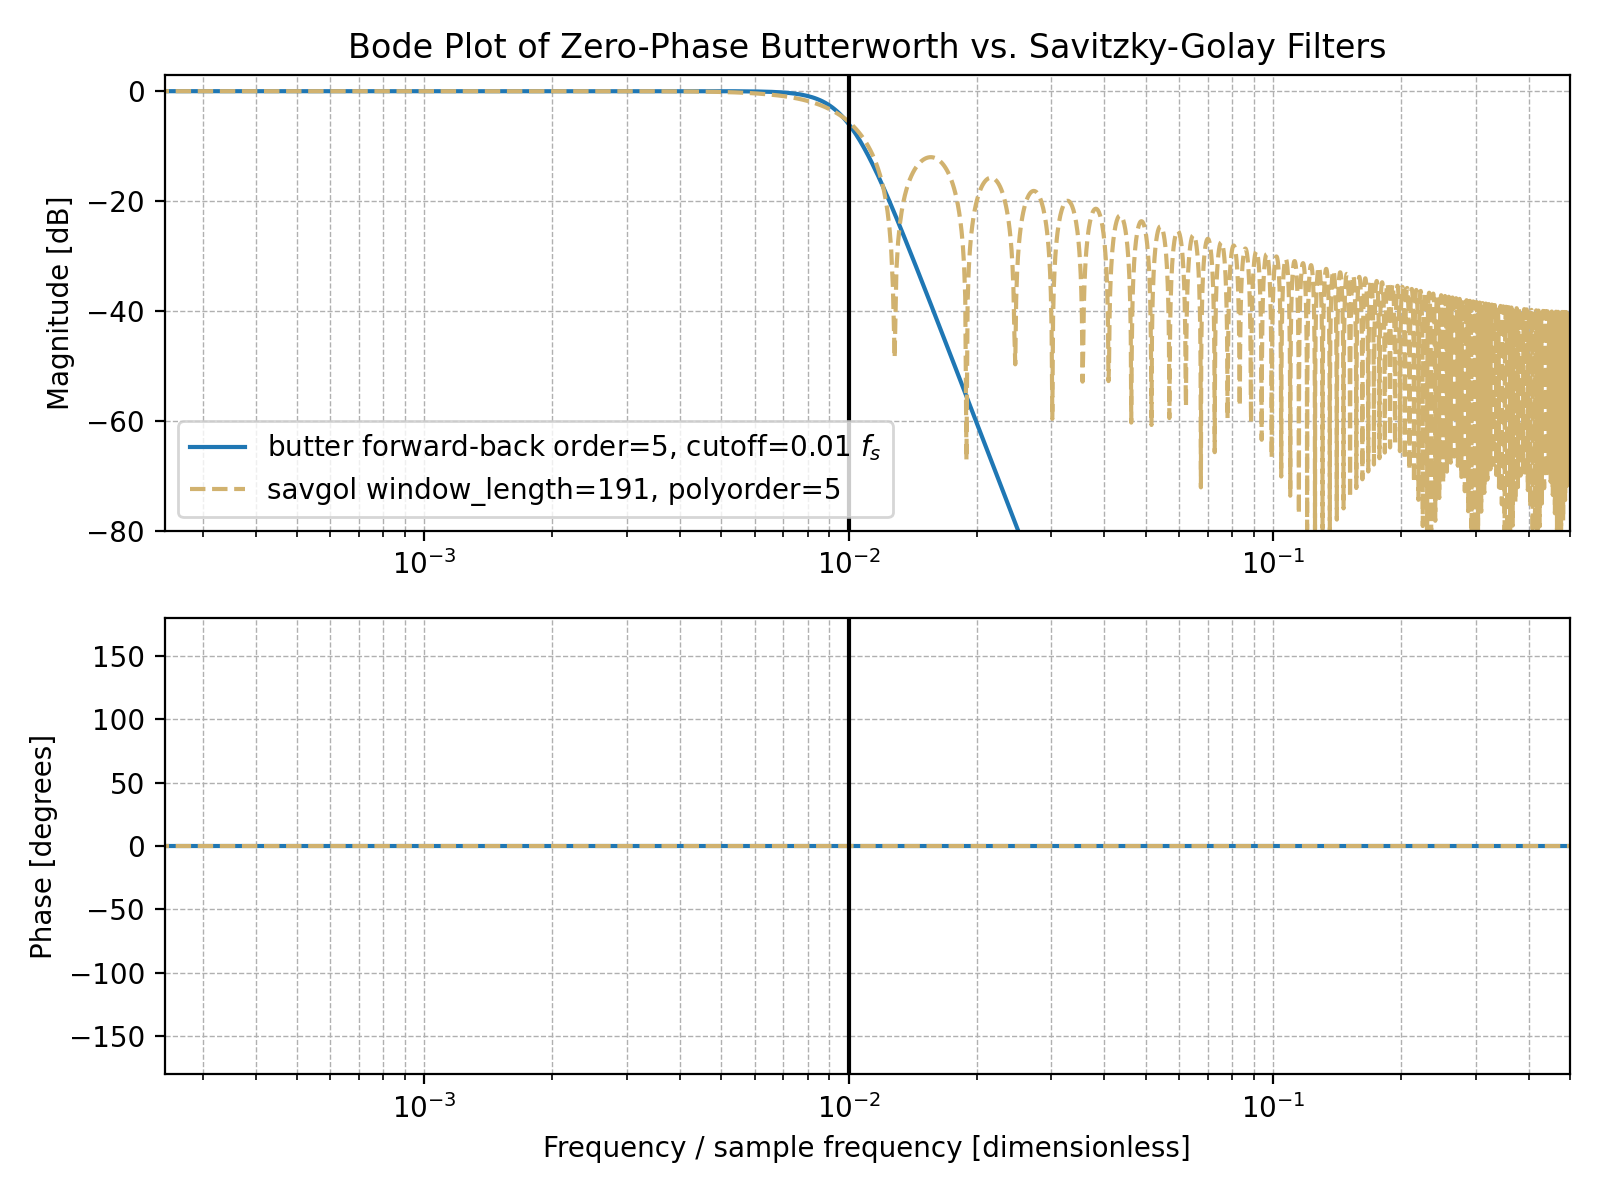
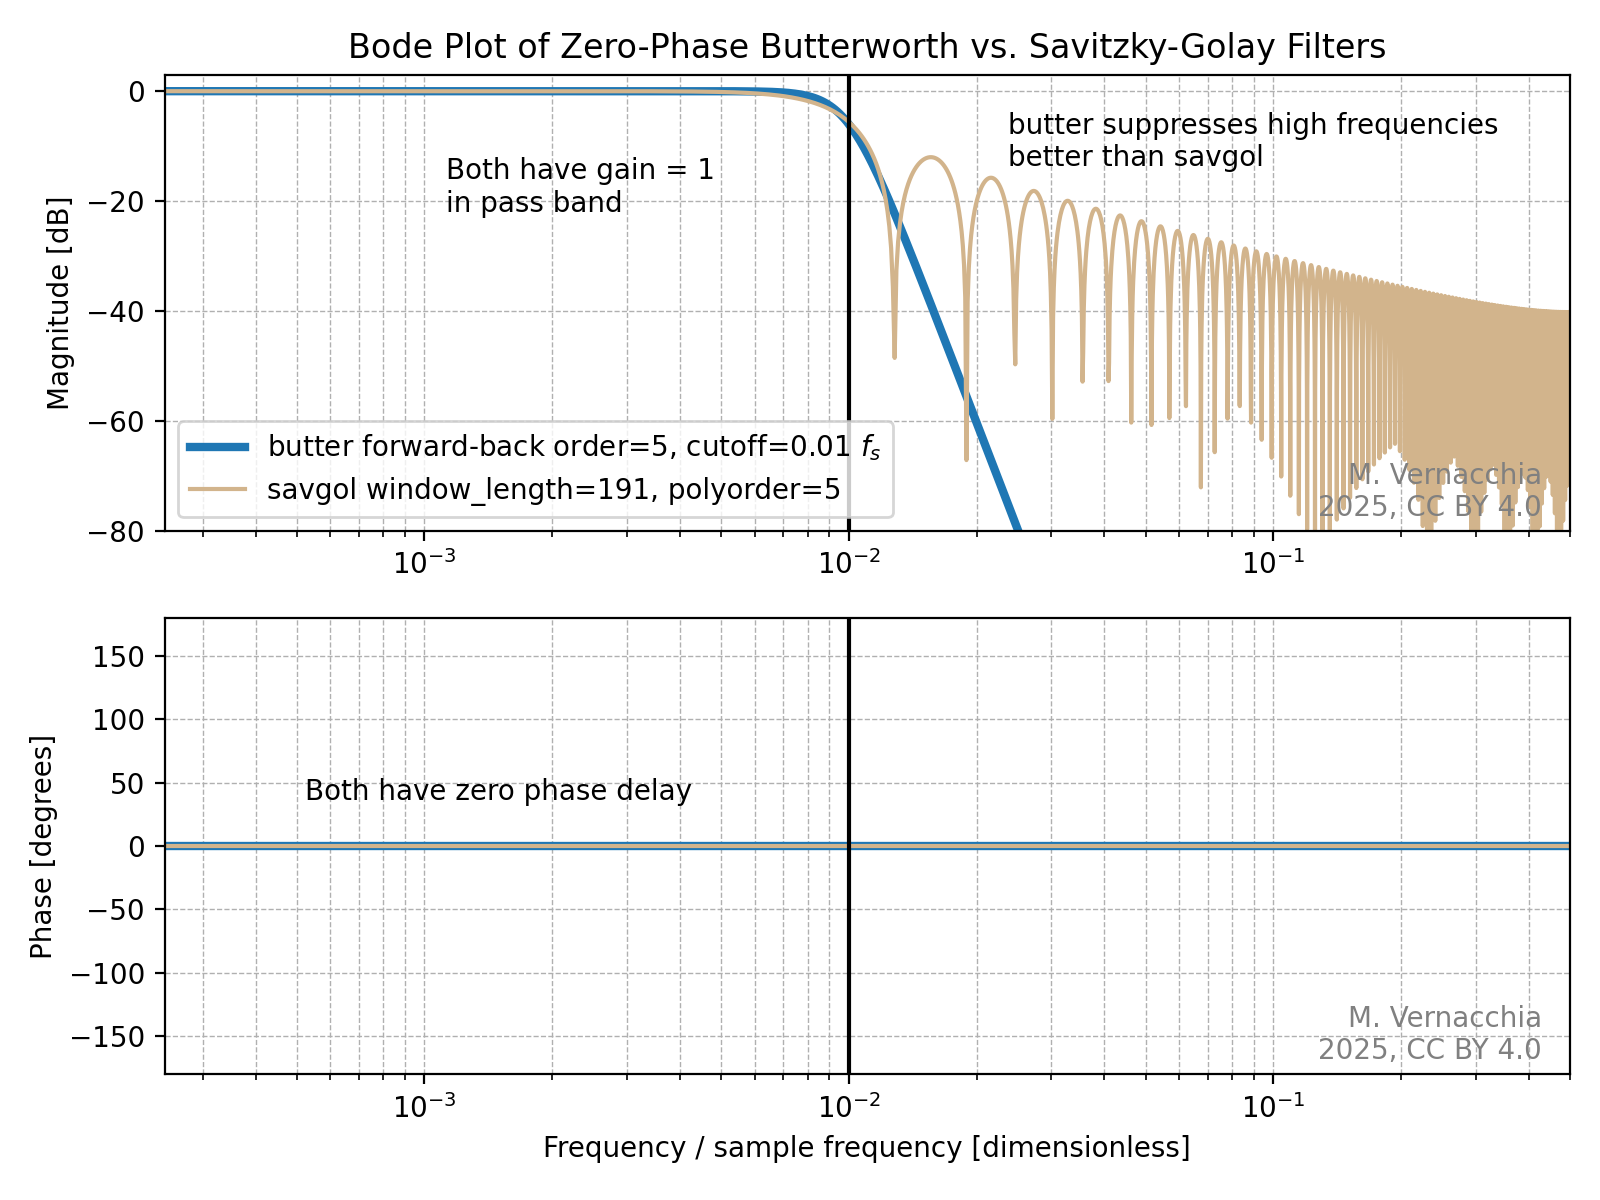
Update plots and text.

diff --git a/docs/engineering_notes/filters_savgol_vs_butter.md b/docs/engineering_notes/filters_savgol_vs_butter.md
@@ -26,6 +26,11 @@ sos = butter(ORDER, Wn=fc, fs=fs, output="sos")
 x_filtered = sosfiltfilt(sos, x_raw)
 ```
 
+The superior characteristics of the forward-backward Butterworth filter are illustrated in the Bode plot below.
+If you are new to Bode plots, or simply want more details, read on below.
+
+<img src="../../assets/images/engineering_notes/filter_savgol_vs_butter/bode.png" width=100%>
+
 ## The task: remove high-frequency noise without distortion
 
 Often, we are trying to measure a relatively slow phenomenon, but our sensors also pick up high-frequency noise.
@@ -69,7 +74,7 @@ For the post-processing application, we want a Bode plot that looks like this:
     <figcaption>Ideal Bode plot for scientific post-processing.</figcaption>
 </figure>
 
-The figure below shows Bode plots of the Butterworth (blue) and Savitzky–Golay (tan) filters.
+Now, we can return to the figure this post started with (it is inlined again below). It is a Bode plot of the Butterworth (blue) and Savitzky–Golay (tan) filters.
 For a fair comparison, but filters are set for a cutoff at 0.01 times the sampling frequency (vertical black line).
 
 <figure>
@@ -102,6 +107,10 @@ Zooming in, we see that the Butterworth forward-backward filter does a better jo
     <img src="../../assets/images/engineering_notes/filter_savgol_vs_butter/example_time_domain_detail.png" width=100%>
     <figcaption>A time scales shorter than the cutoff, the Butterworth-filtered signal is smooth, whereas Savitzky–Golay leaves high-frequency junk in the filtered signal.</figcaption>
 </figure>
+
+## Code
+
+The python scripts that made then figures in this post are available [on github](https://github.com/mvernacc/filters_savgol_vs_butter).
 
 ## Further reading
 
